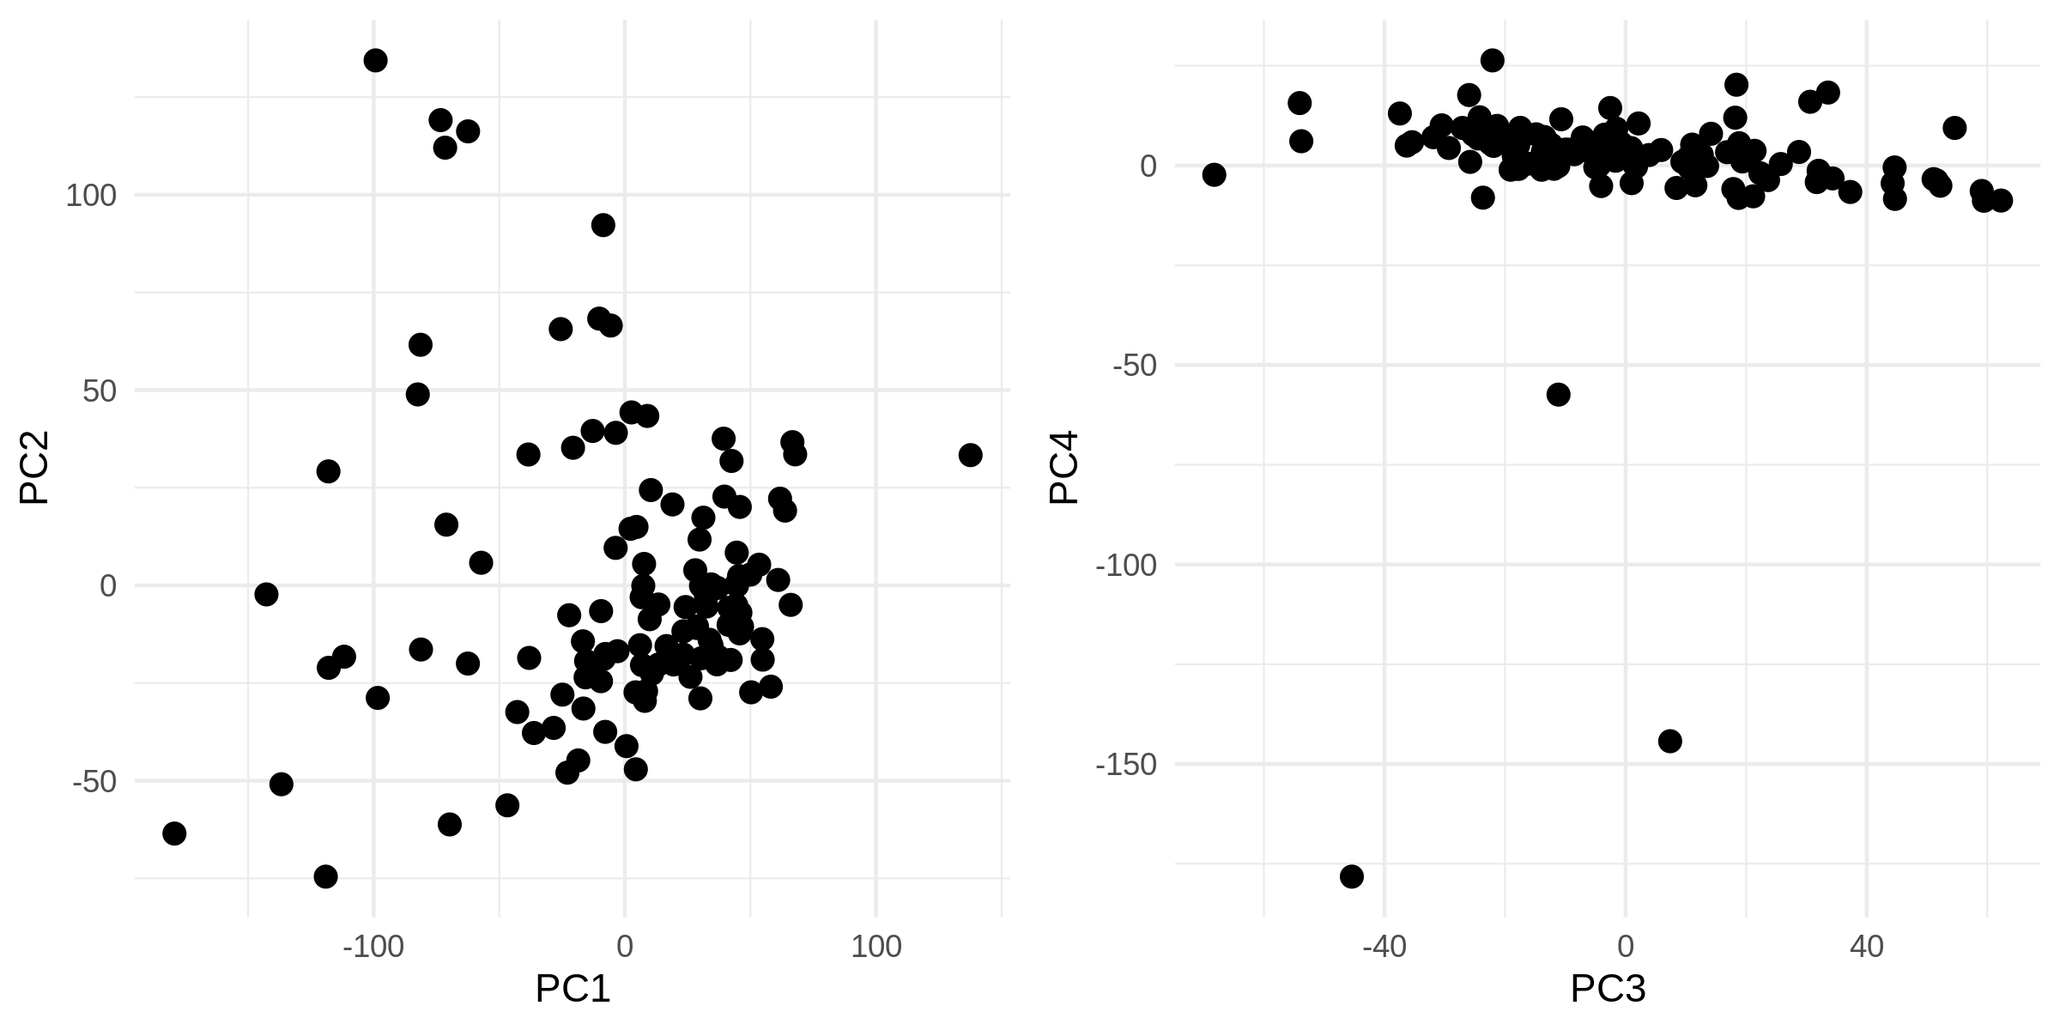
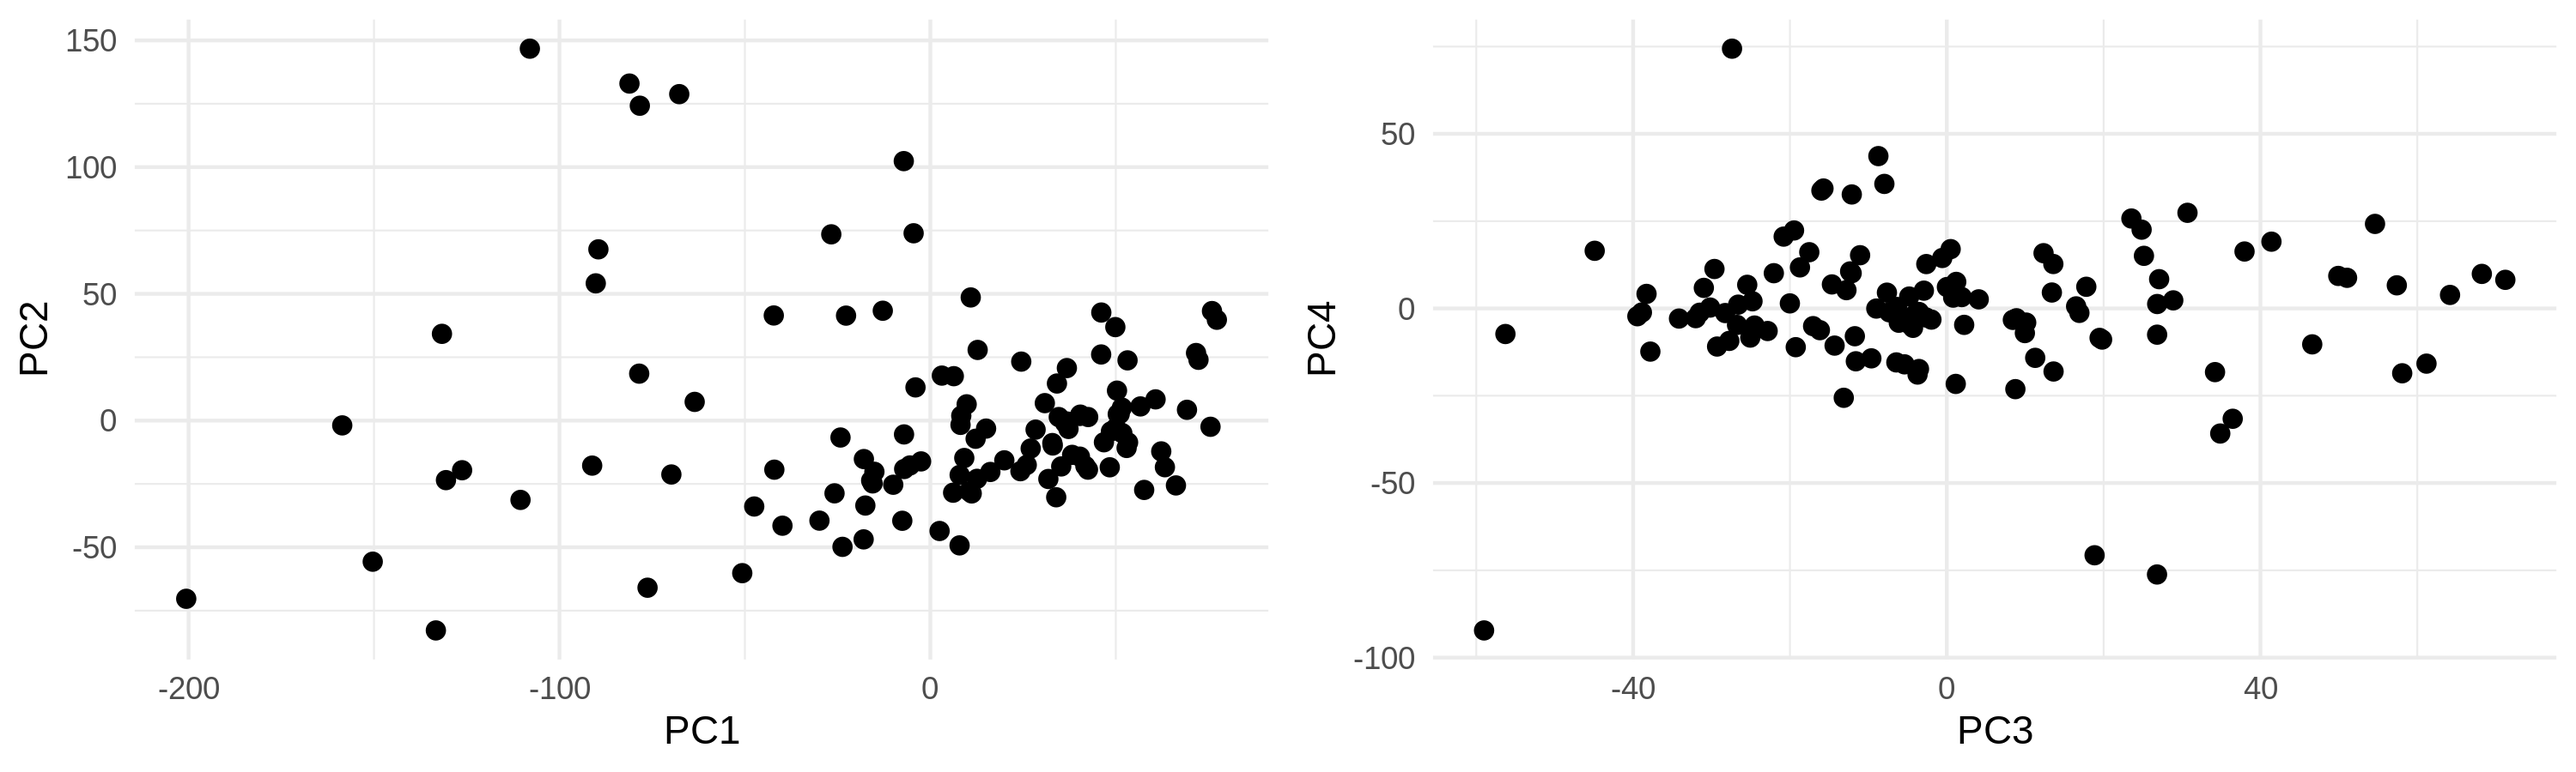
exclude samples that failed QC

diff --git a/andreoletti/README.md b/andreoletti/README.md
@@ -15,7 +15,7 @@ individuals (about 10,000 genes).
 
 ### Gene weights
 
-![](README_files/figure-gfm/unnamed-chunk-8-1.png)<!-- -->
+![](README_files/figure-gfm/unnamed-chunk-9-1.png)<!-- -->
 
 ### PCA colored by IFN score
 
@@ -29,7 +29,7 @@ IFN genes.
 -   “Interferon Davenport Set” are 11 genes listed in Davenport et al
     (2018).
 
-![](README_files/figure-gfm/unnamed-chunk-9-1.png)<!-- -->
+![](README_files/figure-gfm/unnamed-chunk-10-1.png)<!-- -->
 
 ### Correlation between IFN score and PC1
 
@@ -39,11 +39,11 @@ IFN genes.
     ##  Spearman's rank correlation rho
     ## 
     ## data:  test_df$ifn_a and test_df$PC1
-    ## S = 499556, p-value < 2.2e-16
+    ## S = 450434, p-value < 2.2e-16
     ## alternative hypothesis: true rho is not equal to 0
     ## sample estimates:
     ##        rho 
-    ## -0.7346899
+    ## -0.7315727
 
 #### Interferon Gamma Genes
 
@@ -51,11 +51,11 @@ IFN genes.
     ##  Spearman's rank correlation rho
     ## 
     ## data:  test_df$ifn_g and test_df$PC1
-    ## S = 532690, p-value < 2.2e-16
+    ## S = 481510, p-value < 2.2e-16
     ## alternative hypothesis: true rho is not equal to 0
     ## sample estimates:
-    ##        rho 
-    ## -0.8497465
+    ##       rho 
+    ## -0.851036
 
 #### Interferon Davenport Genes
 
@@ -63,12 +63,12 @@ IFN genes.
     ##  Spearman's rank correlation rho
     ## 
     ## data:  test_df$ifn_daven and test_df$PC1
-    ## S = 397970, p-value = 1.942e-05
+    ## S = 355746, p-value = 5.557e-05
     ## alternative hypothesis: true rho is not equal to 0
     ## sample estimates:
     ##        rho 
-    ## -0.3819362
+    ## -0.3675701
 
 ### K-means clustering of IFN genes expression levels
 
-![](README_files/figure-gfm/unnamed-chunk-13-1.png)<!-- -->
+![](README_files/figure-gfm/unnamed-chunk-14-1.png)<!-- -->
